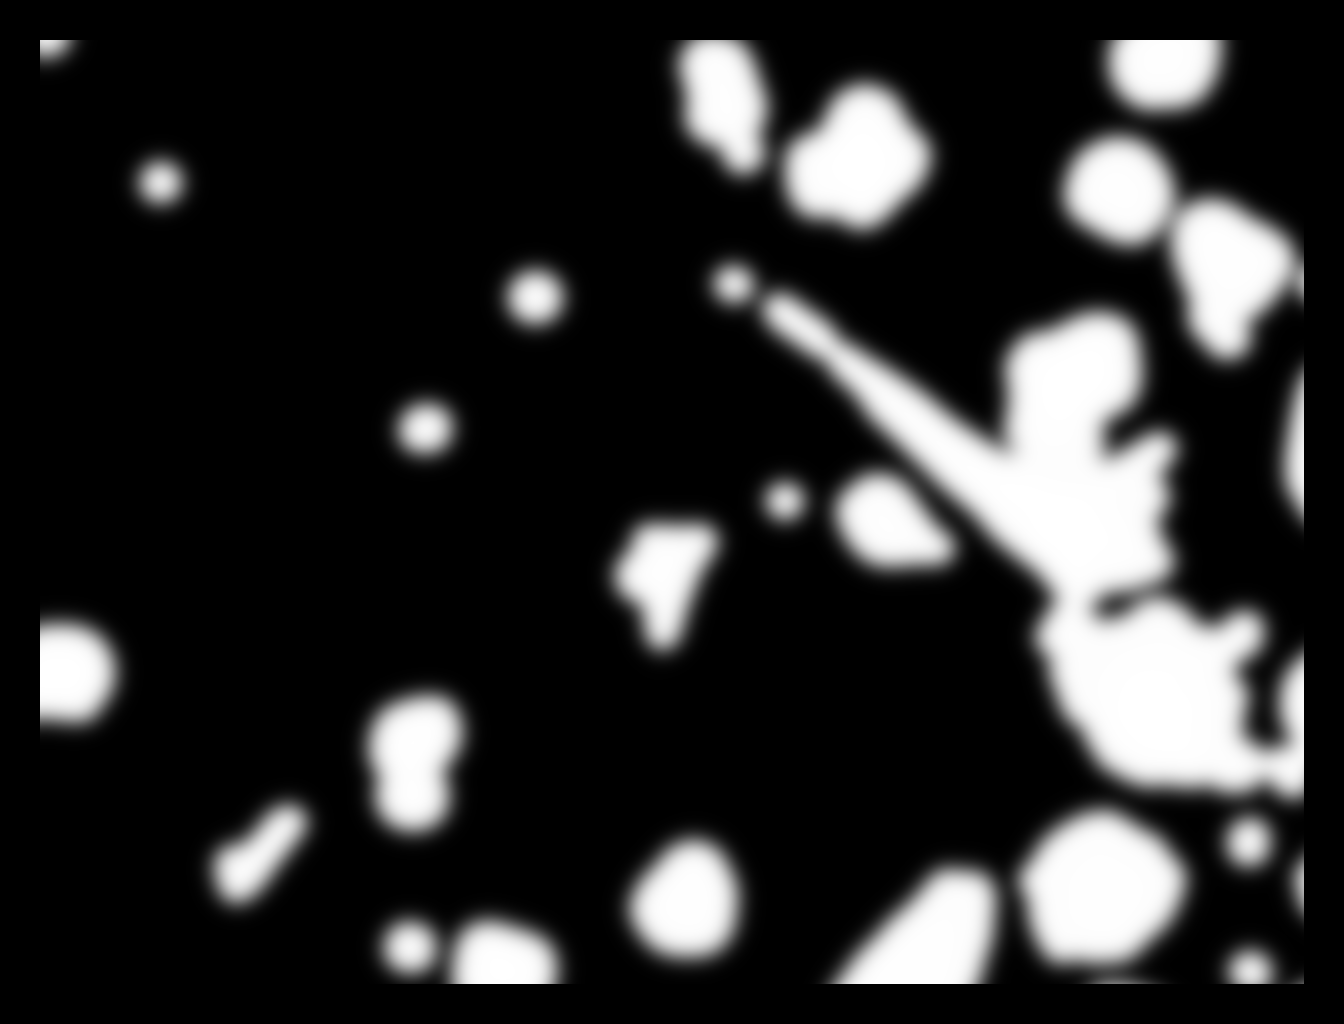
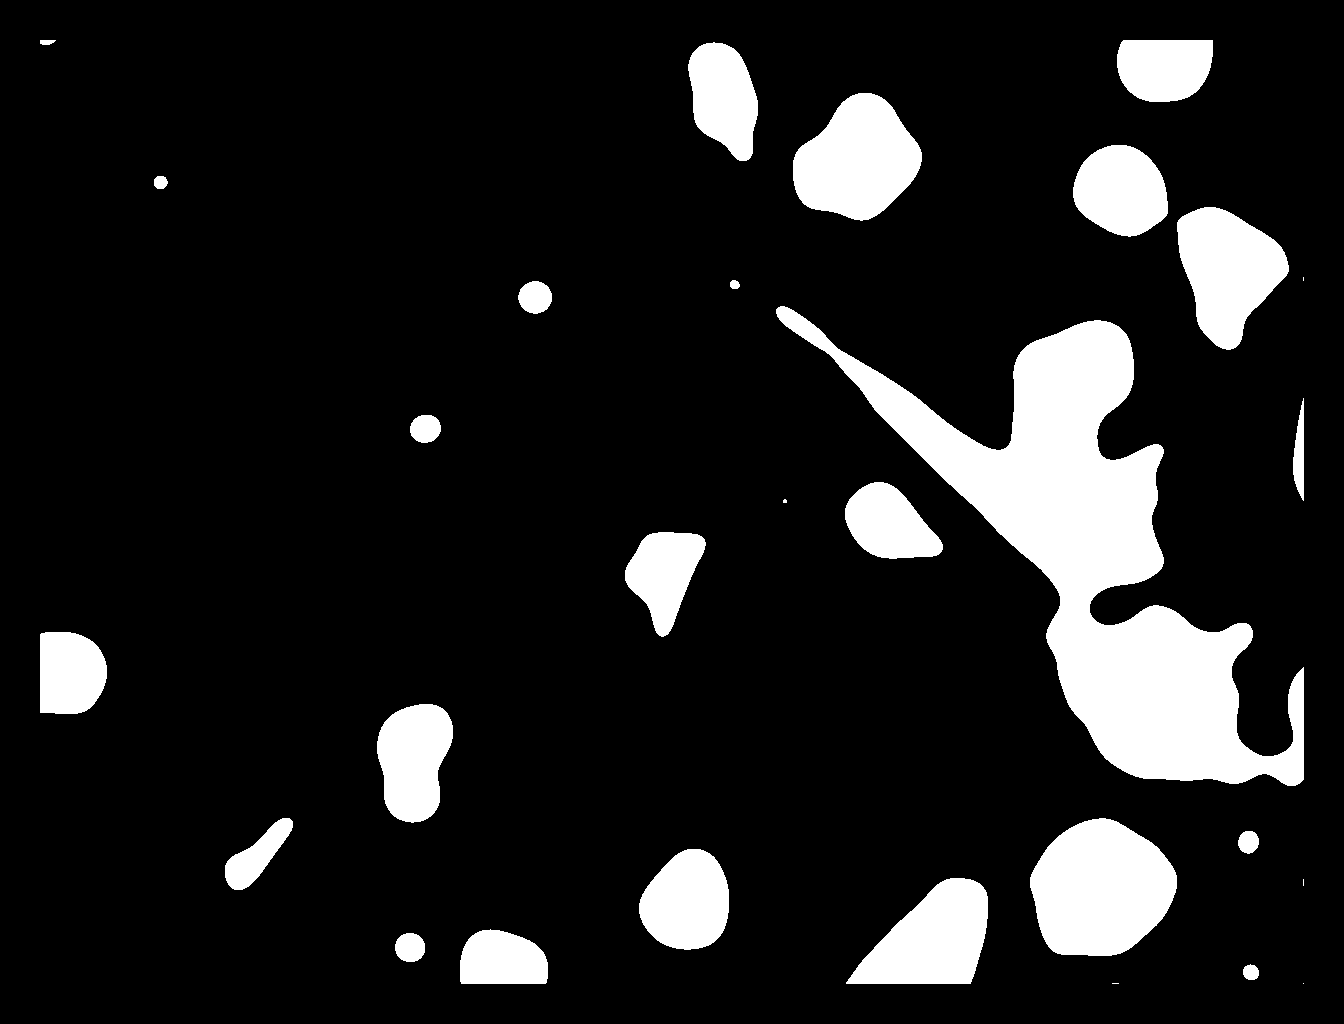
Find maxima, cell boundaries

diff --git a/edu/uci/ics/graphics/neurovizj/src/process/Segmentator.java b/edu/uci/ics/graphics/neurovizj/src/process/Segmentator.java
@@ -73,7 +73,7 @@ public class Segmentator {
 		binFilt.run(e);
 		e.invert();
 		//dilate the image
-		filter.rank(e, 5, RankFilters.MAX);
+		filter.rank(e, 8, RankFilters.MAX);
 		e.invert();
 		binFilt.run(e);
 		e.invert();
@@ -86,17 +86,15 @@ public class Segmentator {
 		e.invert();
 		*/
 		
-		/*
+		//find all cells
 		e.invert();
 		ImagePlus imp = new ImagePlus("Temp", e.duplicate());
-		ResultsTable rt = new ResultsTable();
+		e.invert();
+		ResultsTable blobs = new ResultsTable();
 		Double min_size = 0.0;
 		Double max_size = Double.POSITIVE_INFINITY;
-		ParticleAnalyzer pa = new ParticleAnalyzer(ParticleAnalyzer.SHOW_RESULTS, 0, rt, min_size, max_size);
+		ParticleAnalyzer pa = new ParticleAnalyzer(ParticleAnalyzer.SHOW_RESULTS, 0, blobs, min_size, max_size);
 		pa.analyze(imp);
-		e = imp.getProcessor();
-		e.invert();
-		*/
 		
 		//fill holes
 		/*
@@ -105,12 +103,16 @@ public class Segmentator {
 		e.invert();
 		*/
 		
-		filter.rank(e, 5, RankFilters.OPEN);
+		//filter.rank(e, 5, RankFilters.OPEN);
 		
 		//smoothing
 		//may want to make better
 		ImageProcessor presmooth = e.convertToFloatProcessor();
-		presmooth.multiply(100);
+		ImageProcessor presmooth1 = presmooth.duplicate();
+		
+		//workaround: adding is technically incorrect but
+		//it works for now
+		filter.rank(presmooth, 5, RankFilters.OPEN);
 		ImageProcessor adj = adjImg.convertToFloatProcessor();
 		presmooth.copyBits(adj, 0, 0, Blitter.ADD);
 		presmooth.blurGaussian(10);
@@ -120,13 +122,38 @@ public class Segmentator {
 		ImageProcessor mask = genMask(smooth.getWidth(), smooth.getHeight(), 40);
 		smooth.copyBits(mask, 0, 0, Blitter.AND);
 		MaximumFinder maxFind = new MaximumFinder();
-		ImageProcessor maximas = maxFind.findMaxima(smooth, .002, .02, MaximumFinder.IN_TOLERANCE, false, false);
+		ImageProcessor maximas = maxFind.findMaxima(smooth, 1, 50, MaximumFinder.IN_TOLERANCE, true, false);
+		
+		maximas.invert();
+		ImagePlus maxImp = new ImagePlus("Temp", maximas.duplicate());
+		maximas.invert();
+		ResultsTable m = new ResultsTable();
+		min_size = 0.0;
+		max_size = Double.POSITIVE_INFINITY;
+		pa = new ParticleAnalyzer(ParticleAnalyzer.SHOW_RESULTS, 0, m, min_size, max_size);
+		pa.analyze(maxImp);
+		
+		//determine boundaries
+		ImageProcessor boundaries = presmooth1.duplicate();
+		boundaries.invert();
+		ImageProcessor tempBoundaries = boundaries.duplicate();
+		filter.rank(tempBoundaries, 2, RankFilters.MIN);
+		boundaries.copyBits(tempBoundaries, 0, 0, Blitter.SUBTRACT);
+		
+		
+		//invert the original image
+		ImageProcessor imc = input.getOrig().getProcessor().duplicate();
+		imc.invert();
+		
+		//find connected components
+		
+		
 		
 		
 		
 		System.out.println("Time elapsed: " + (System.nanoTime() - begin)/1000000000.0 + " seconds");
 		//e = e.convertToFloat();
-		return new ImagePlus("Hello", smooth); //TODO: change when completed testing
+		return new ImagePlus("Hello", maximas); //TODO: change when completed testing
 	}
 	
 	/**
